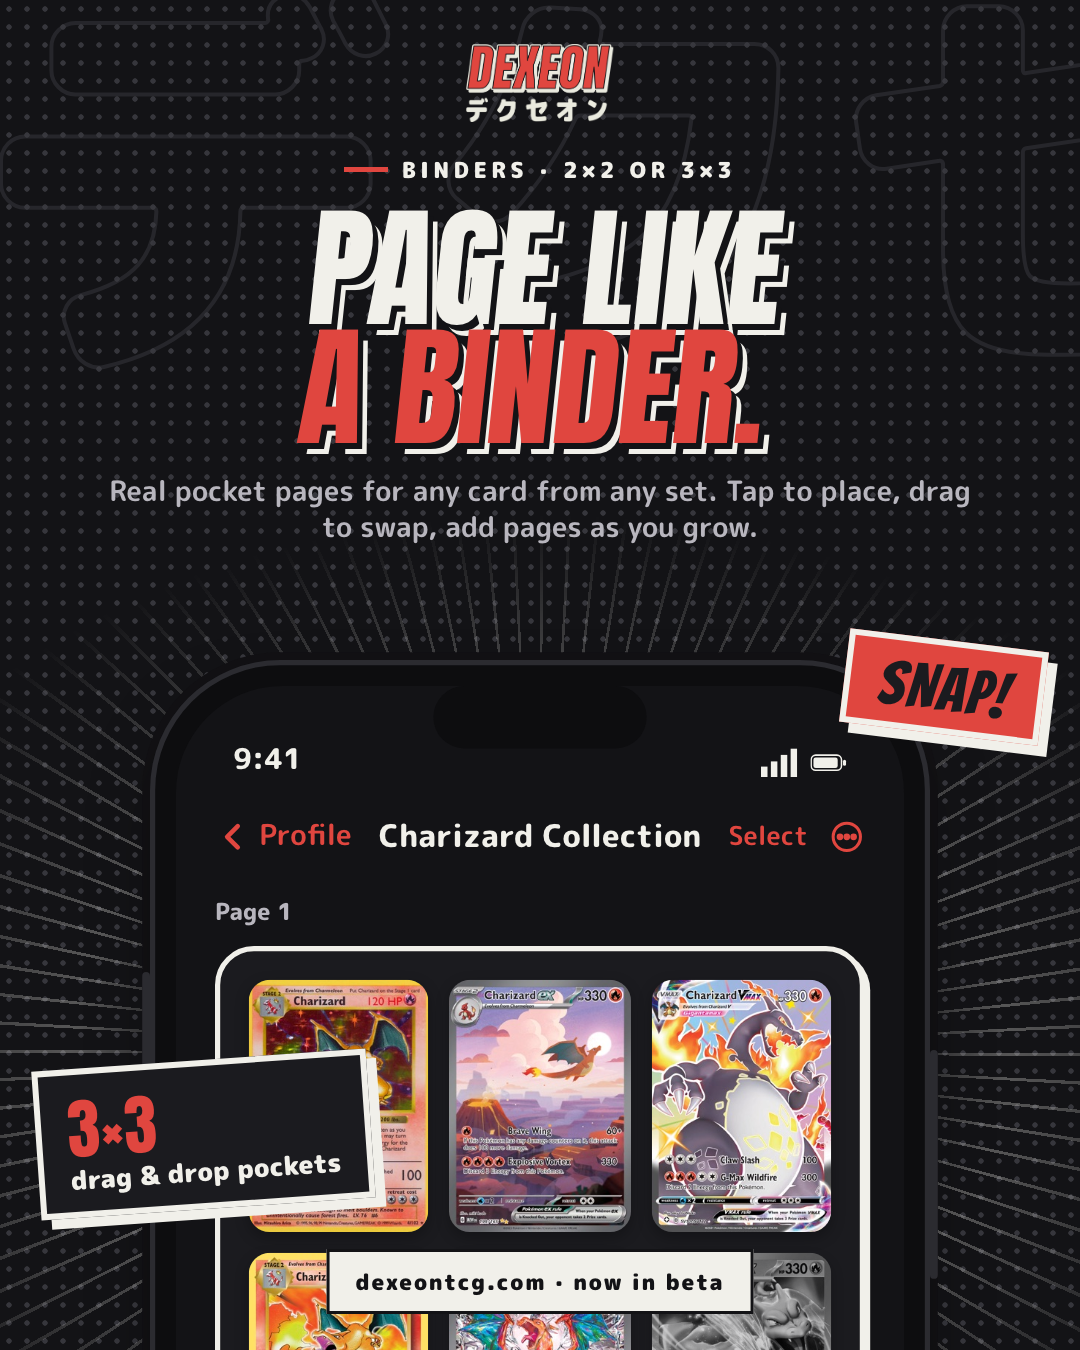
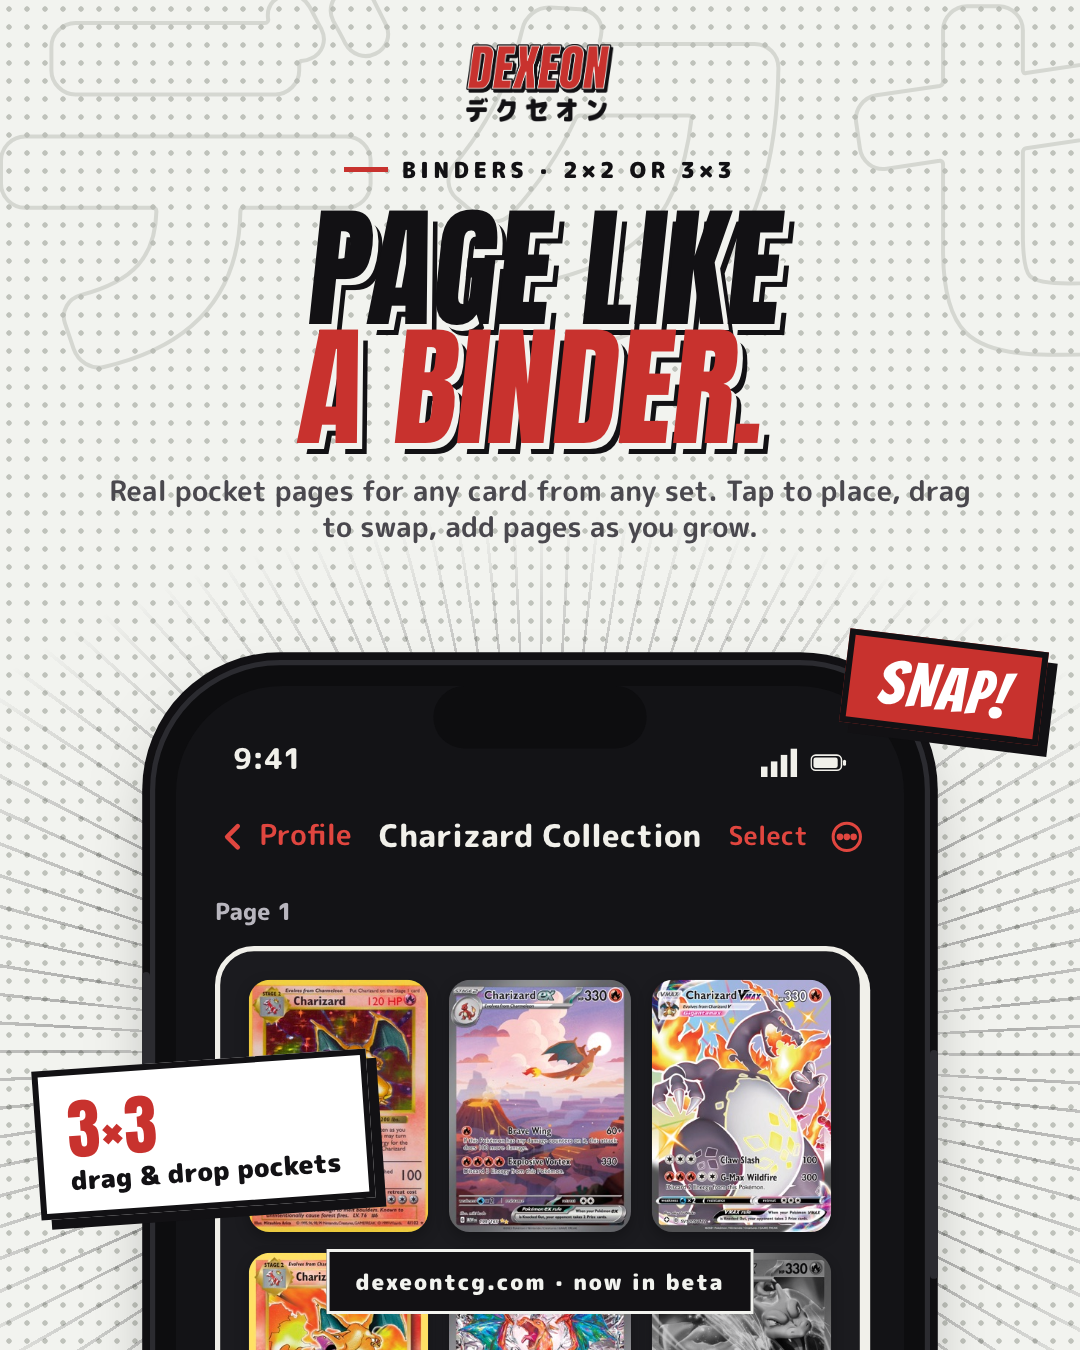
Instagram binder tile on the light palette
Per-size theme override in the generator; App Store binder screen stays dark.

diff --git a/marketing/instagram-4x5-screen-3-binders.html b/marketing/instagram-4x5-screen-3-binders.html
@@ -1,5 +1,5 @@
 <!doctype html>
-<html lang="en" data-theme="dark"><head><meta charset="utf-8"><title>Dexeon App Store screen</title><link rel="stylesheet" href="https://fonts.googleapis.com/css2?family=Anton&family=Bangers&family=M+PLUS+Rounded+1c:wght@400;500;700;800;900&display=swap"><style>
+<html lang="en" data-theme="light"><head><meta charset="utf-8"><title>Dexeon App Store screen</title><link rel="stylesheet" href="https://fonts.googleapis.com/css2?family=Anton&family=Bangers&family=M+PLUS+Rounded+1c:wght@400;500;700;800;900&display=swap"><style>
   /* ───────────── Tokens ───────────── */
   :root{
     --paper:#F2F3EF;        /* newsprint white */
@@ -626,7 +626,7 @@ body{background:var(--paper);position:relative;font-family:var(--body)}
           .speed{--cx:50%;--cy:78%}
           .sfx{font-size:62px;padding:12px 28px 8px;border-width:6px;box-shadow:10px 10px 0 var(--ink)}
           .stat-tag{font-size:26px;padding:18px 26px;border-width:6px;box-shadow:10px 10px 0 var(--ink)} .stat-tag b{font-size:66px}
-          .tile-url{position:absolute;left:50%;bottom:36px;transform:translateX(-50%);z-index:6;background:var(--ink);color:var(--paper);font-weight:900;font-size:22px;letter-spacing:.08em;padding:12px 26px;border:3px solid var(--paper);white-space:nowrap}</style></head><body><div class="shot"><div class="halft"></div><div class="kana-bg" aria-hidden="true">デクセオン</div><img class="tile-brand" src="../assets/logo/dexeon-wordmark-nav-dark.png" alt=""><div class="head"><span class="eyebrow">Binders · 2×2 or 3×3</span><h1>Page like<br><span class="red">a binder.</span></h1><p>Real pocket pages for any card from any set. Tap to place, drag to swap, add pages as you grow.</p></div><div class="speed"></div><span class="sfx" style="right:36px;top:640px;transform:rotate(7deg)">SNAP!</span><div class="stat-tag" style="left:36px;top:1060px;transform:rotate(-4deg)"><b>3×3</b>drag &amp; drop pockets</div><div class="stage"><div class="phone" role="img" aria-label="Dexeon binder page in dark mode: a 3×3 grid of Charizard cards with one card being dragged into an empty pocket">
+          .tile-url{position:absolute;left:50%;bottom:36px;transform:translateX(-50%);z-index:6;background:var(--ink);color:var(--paper);font-weight:900;font-size:22px;letter-spacing:.08em;padding:12px 26px;border:3px solid var(--paper);white-space:nowrap}</style></head><body><div class="shot"><div class="halft"></div><div class="kana-bg" aria-hidden="true">デクセオン</div><img class="tile-brand" src="../assets/logo/dexeon-wordmark-nav.png" alt=""><div class="head"><span class="eyebrow">Binders · 2×2 or 3×3</span><h1>Page like<br><span class="red">a binder.</span></h1><p>Real pocket pages for any card from any set. Tap to place, drag to swap, add pages as you grow.</p></div><div class="speed"></div><span class="sfx" style="right:36px;top:640px;transform:rotate(7deg)">SNAP!</span><div class="stat-tag" style="left:36px;top:1060px;transform:rotate(-4deg)"><b>3×3</b>drag &amp; drop pockets</div><div class="stage"><div class="phone" role="img" aria-label="Dexeon binder page in dark mode: a 3×3 grid of Charizard cards with one card being dragged into an empty pocket">
         <div class="island"></div>
         <div class="screen dark">
           <div class="status"><span>9:41</span><span class="r">

diff --git a/marketing/build.py b/marketing/build.py
@@ -172,7 +172,7 @@ SIZES = {
         }),
     # Instagram 4:5 feed tiles: wordmark on top, headline, phone bleeding off the bottom, URL pill.
     'instagram-4x5': dict(
-        w=1080, h=1350, out='assets/social', social=True,
+        w=1080, h=1350, out='assets/social', social=True, themes={'screen-3-binders': 'light'},
         css='''html,body{width:1080px;height:1350px}
           .kana-bg{font-size:420px;top:-30px;left:-20px}
           .tile-brand{position:absolute;top:44px;left:50%;transform:translateX(-50%);height:78px;width:auto;z-index:4}
@@ -204,7 +204,8 @@ for sname, sz in SIZES.items():
     for name, sc in SCREENS.items():
         sfx_pos, tag_pos = sz['pos'][name]
         social = sz.get('social', False)
-        brand = ('<img class="tile-brand" src="../assets/logo/dexeon-wordmark-nav.png" alt="">' if social and sc['theme'] == 'light'
+        theme = sz.get('themes', {}).get(name, sc['theme'])
+        brand = ('<img class="tile-brand" src="../assets/logo/dexeon-wordmark-nav.png" alt="">' if social and theme == 'light'
                  else '<img class="tile-brand" src="../assets/logo/dexeon-wordmark-nav-dark.png" alt="">' if social else '')
         url = '<div class="tile-url">dexeontcg.com · now in beta</div>' if social else ''
         body = (
@@ -215,7 +216,7 @@ for sname, sz in SIZES.items():
             f'<div class="stat-tag" style="{tag_pos}">{sc["tag"]}</div>'
             f'<div class="stage">{sc["phone"]}</div>{url}</div>')
         open(f'marketing/{sname}-{name}.html', 'w').write(
-            f'<!doctype html>\n<html lang="en" data-theme="{sc["theme"]}"><head>{HEAD}'
+            f'<!doctype html>\n<html lang="en" data-theme="{theme}"><head>{HEAD}'
             f'<style>{sz["css"]}</style></head><body>{body}</body></html>')
 print('built html for', ', '.join(SIZES))
 
